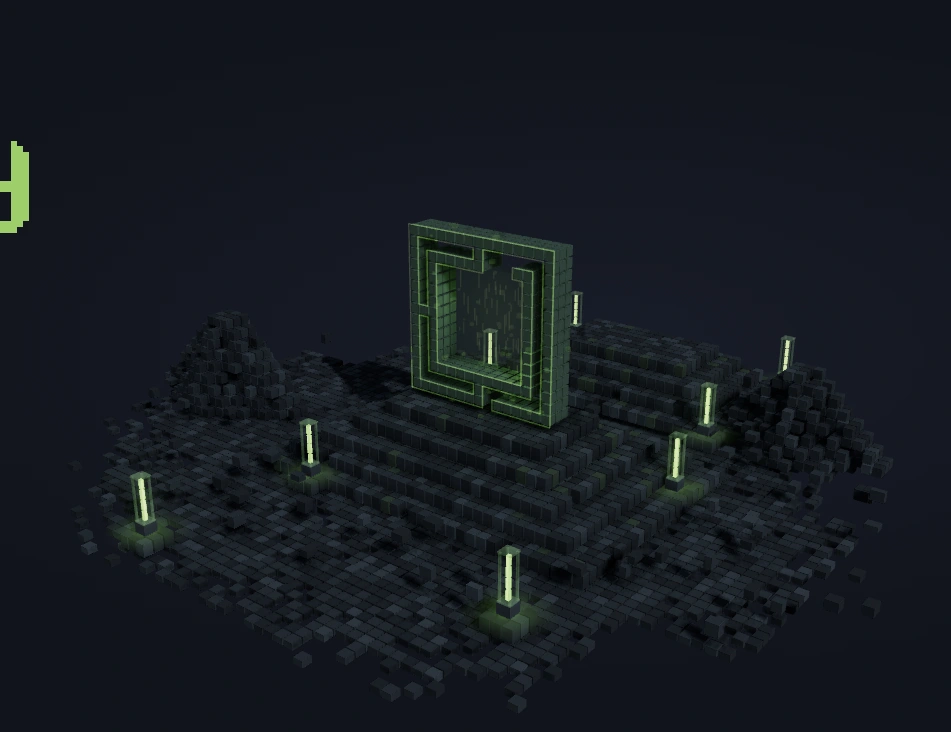
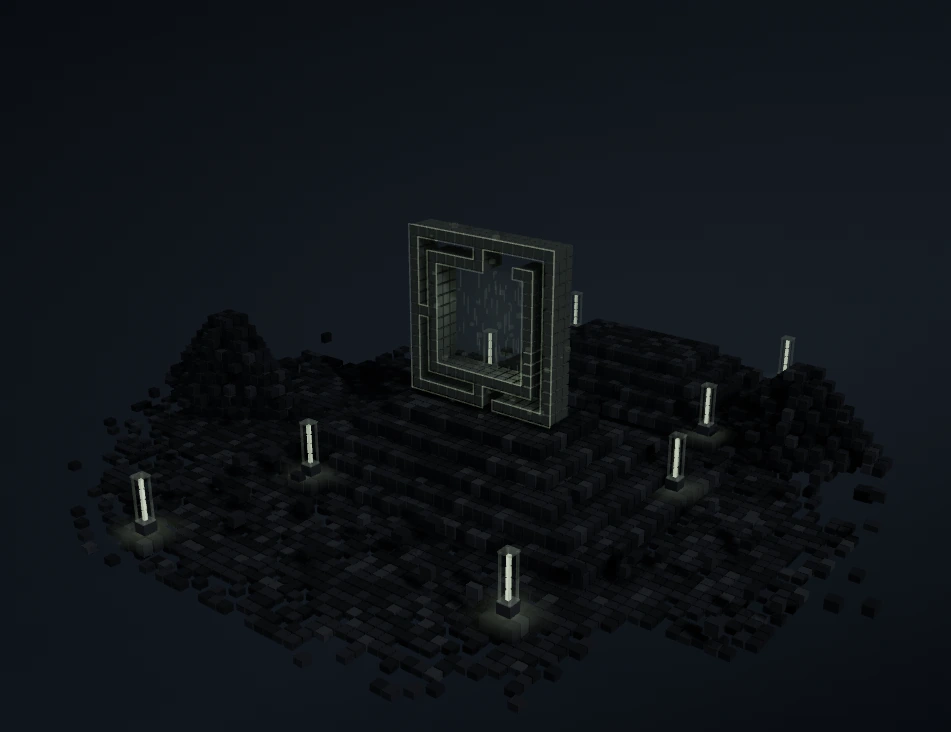
Refresh scene exports and document fork deployment

diff --git a/art/README.md b/art/README.md
@@ -56,7 +56,10 @@ zero only by floating-point noise (less than 0.000001).
 ## Homepage exports
 
 `public/art/bleak.webp` and `quattro.webp` are 951×732 captures of the actual
-settled scene, with the DOM portal control hidden. They provide the same two
+settled scene, with the DOM portal control and overlapping page copy hidden.
+The September 6 palette exports use the full-quality development capture mode
+(`?capture=1&world=bleak` / `quattro`) at a 1440×900 viewport, rendered through
+WebGL2 on Linux with bevels, shadows, and ambient occlusion retained. They provide the same two
 worlds when graphics initialization is unavailable. The component maps its
 portal control to each image and accounts for `object-fit: contain` letterboxing.
 If their framing or dimensions change, update `STILL_PORTALS` in
@@ -64,4 +67,4 @@ If their framing or dimensions change, update `STILL_PORTALS` in
 
 `public/art/pitch-social.jpg` is a 1200×630 crop of the verified Quattro hero.
 Set `VITE_SITE_URL` to the intended public preview origin before building so
-social metadata can use an absolute image URL. No deployment was performed.
+social metadata can use an absolute image URL.

diff --git a/README.md b/README.md
@@ -8,6 +8,7 @@ portal also brings you back. Return visits restore the last selected world
 without replaying a journey when browser storage is available.
 
 [Deployment preview](https://omarchy-homepage-redesign.proyecto-viviana.workers.dev)
+ · [Fork master](https://github.com/EmoPorEmilio/omarchy-site/tree/master)
  · Review branch: `redesign/tanstack-start-solid`
 
 The preview reflects the most recent deployment, which may differ from this
